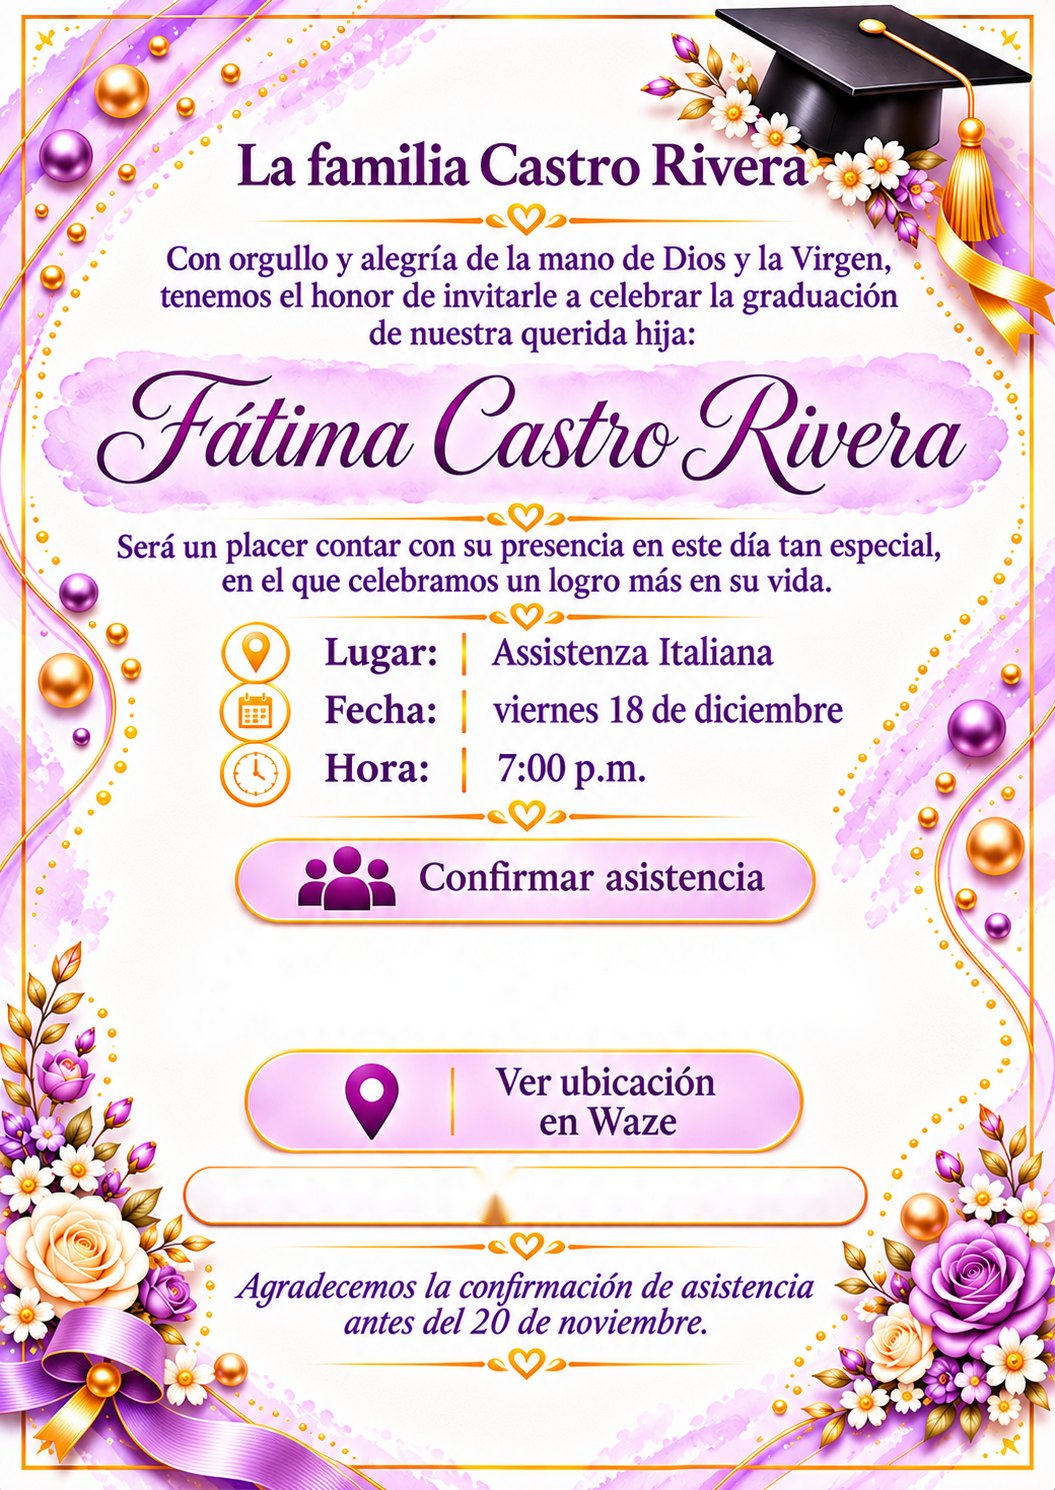
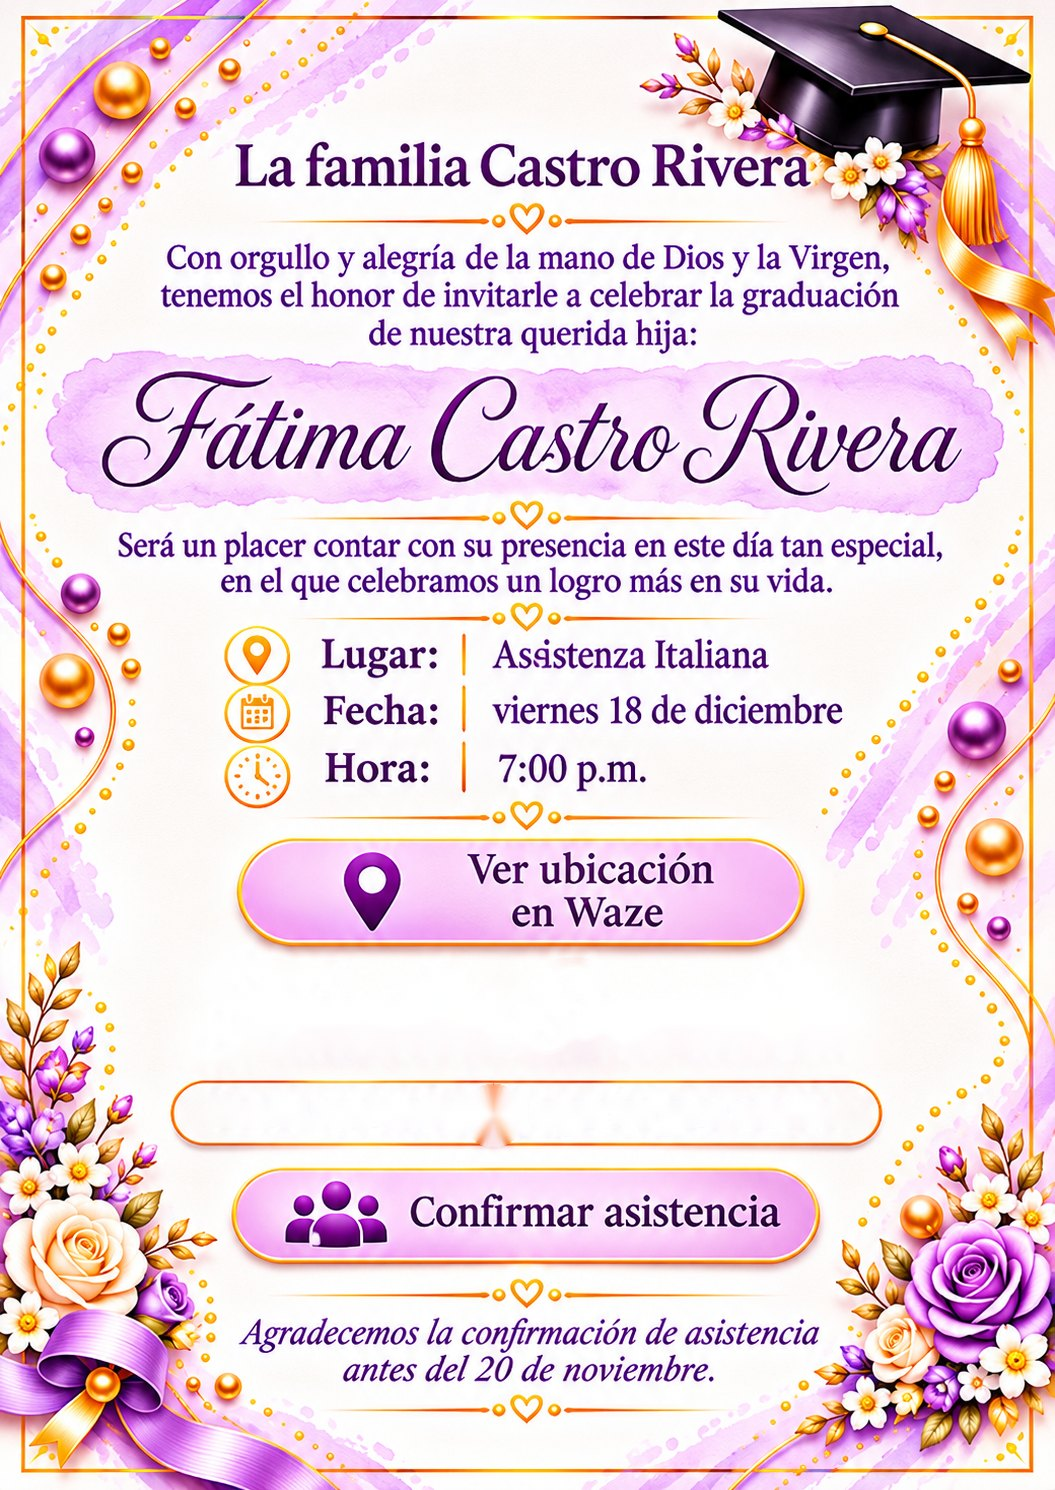
Add files via upload

diff --git a/index.html b/index.html
@@ -76,11 +76,11 @@ body{
 .img-wrap img{width:100%;height:auto;display:block;max-width:100%}
 .hot{position:absolute;display:block;border-radius:40px;-webkit-tap-highlight-color:transparent;transition:box-shadow .2s,transform .2s;cursor:pointer;border:0;background:transparent;padding:0}
 .hot:hover,.hot:focus-visible{box-shadow:0 0 0 3px rgba(201,162,74,.85),0 10px 24px -8px rgba(70,30,90,.5);transform:translateY(-1px);outline:none}
-.familia{position:absolute;left:12%;right:12%;top:62.1%;height:7.7%;display:flex;align-items:center;justify-content:center;font-family:var(--script);font-size:9.5cqw;color:#4d1f63;line-height:1;white-space:nowrap;text-shadow:0 1px 0 rgba(255,255,255,.6);pointer-events:none}
+.familia{position:absolute;left:12%;right:12%;top:64.4%;height:7.4%;display:flex;align-items:center;justify-content:center;font-family:var(--script);font-size:9.5cqw;color:#4d1f63;line-height:1;white-space:nowrap;text-shadow:0 1px 0 rgba(255,255,255,.6);pointer-events:none}
 .familia.larga{font-size:7cqw}
 .familia.xlarga{font-size:5.6cqw}
 .badge{position:absolute;left:46.9%;top:75.6%;width:5%;aspect-ratio:1;transform:translate(-50%,-50%);border-radius:50%;background:radial-gradient(circle at 35% 30%,#8a4aa5,#5b2a6f 60%,#43194f);box-shadow:0 0 0 2px #f4e0b0,0 2px 6px rgba(60,20,80,.4);display:grid;place-items:center;font-family:var(--serif);font-weight:600;color:#fff;font-size:3.4cqw;line-height:1;pointer-events:none}
-.estado{position:absolute;left:23.2%;width:53.1%;top:53.9%;height:2.3%;display:flex;align-items:center;justify-content:center;font-size:2.5cqw;font-weight:600;color:#2e7d4f;letter-spacing:.03em;pointer-events:none;line-height:1}
+.estado{position:absolute;left:22.7%;width:53.6%;top:84.3%;height:2.3%;display:flex;align-items:center;justify-content:center;font-size:2.5cqw;font-weight:600;color:#2e7d4f;letter-spacing:.03em;pointer-events:none;line-height:1}
 
 /* MODAL */
 .velo{position:fixed;inset:0;background:rgba(50,20,70,.55);backdrop-filter:blur(3px);display:none;align-items:center;justify-content:center;z-index:50;padding:16px}
@@ -105,7 +105,7 @@ body{
 .gracias-ico{font-size:3rem;color:var(--oro);line-height:1}
 .err{color:#9b2c2c;font-size:.95rem;margin-top:8px}
 @media (prefers-reduced-motion:reduce){*{animation-duration:.01ms!important;transition-duration:.01ms!important}.petalos{display:none}.abierto .invitacion{opacity:1;transform:none}.abierto .sobre-wrap,.abierto .pista{display:none}}
-.pill{position:absolute;left:20%;width:60%;top:78.2%;height:3.7%;display:flex;align-items:center;justify-content:center;gap:1.2cqw;font-family:var(--serif);font-weight:600;font-size:3.3cqw;color:#4d1f63;white-space:nowrap;pointer-events:none;line-height:1}
+.pill{position:absolute;left:18%;width:64%;top:72.8%;height:4.0%;display:flex;align-items:center;justify-content:center;gap:1.2cqw;font-family:var(--serif);font-weight:600;font-size:3.3cqw;color:#4d1f63;white-space:nowrap;pointer-events:none;line-height:1}
 .pill .b{display:inline-grid;place-items:center;width:4.9cqw;height:4.9cqw;border-radius:50%;background:radial-gradient(circle at 35% 30%,#8a4aa5,#5b2a6f 60%,#43194f);box-shadow:0 0 0 0.2cqw #f4e0b0,0 0.2cqw 0.6cqw rgba(60,20,80,.4);color:#fff;font-size:3.4cqw}
 </style>
 </head>
@@ -130,12 +130,12 @@ body{
 
   <section class="invitacion" aria-live="polite">
     <div class="img-wrap">
-      <img src="invitacion.jpg?v=4" alt="Invitación de graduación de Lic. Fátima Castro Rivera. Lugar: Assistenza Italiana. Viernes 18 de diciembre, 7:00 p.m.">
+      <img src="invitacion.jpg?v=6" alt="Invitación de graduación de Lic. Fátima Castro Rivera. Lugar: Assistenza Italiana. Viernes 18 de diciembre, 7:00 p.m.">
       <div class="familia" id="familia"></div>
       <div class="pill" id="pill" hidden>Hemos reservado <span class="b" id="badge"></span> <span id="pill-txt"></span></div>
       <div class="estado" id="estado"></div>
-      <button class="hot" id="btn-confirmar" style="left:23.2%;top:56.4%;width:53.1%;height:5%" aria-label="Confirmar asistencia"></button>
-      <a class="hot" href="https://waze.com/ul?ll=13.682592,-89.241107&navigate=yes&q=Assistenza%20Italiana" target="_blank" rel="noopener" style="left:23.2%;top:70.5%;width:53.1%;height:6.7%" aria-label="Ver ubicación en Waze"></a>
+      <button class="hot" id="btn-confirmar" style="left:22.7%;top:78.2%;width:53.6%;height:6%" aria-label="Confirmar asistencia"></button>
+      <a class="hot" href="https://waze.com/ul?ll=13.682592,-89.241107&navigate=yes&q=Assistenza%20Italiana" target="_blank" rel="noopener" style="left:22.7%;top:56.4%;width:53.6%;height:7%" aria-label="Ver ubicación en Waze"></a>
     </div>
   </section>
 </main>
